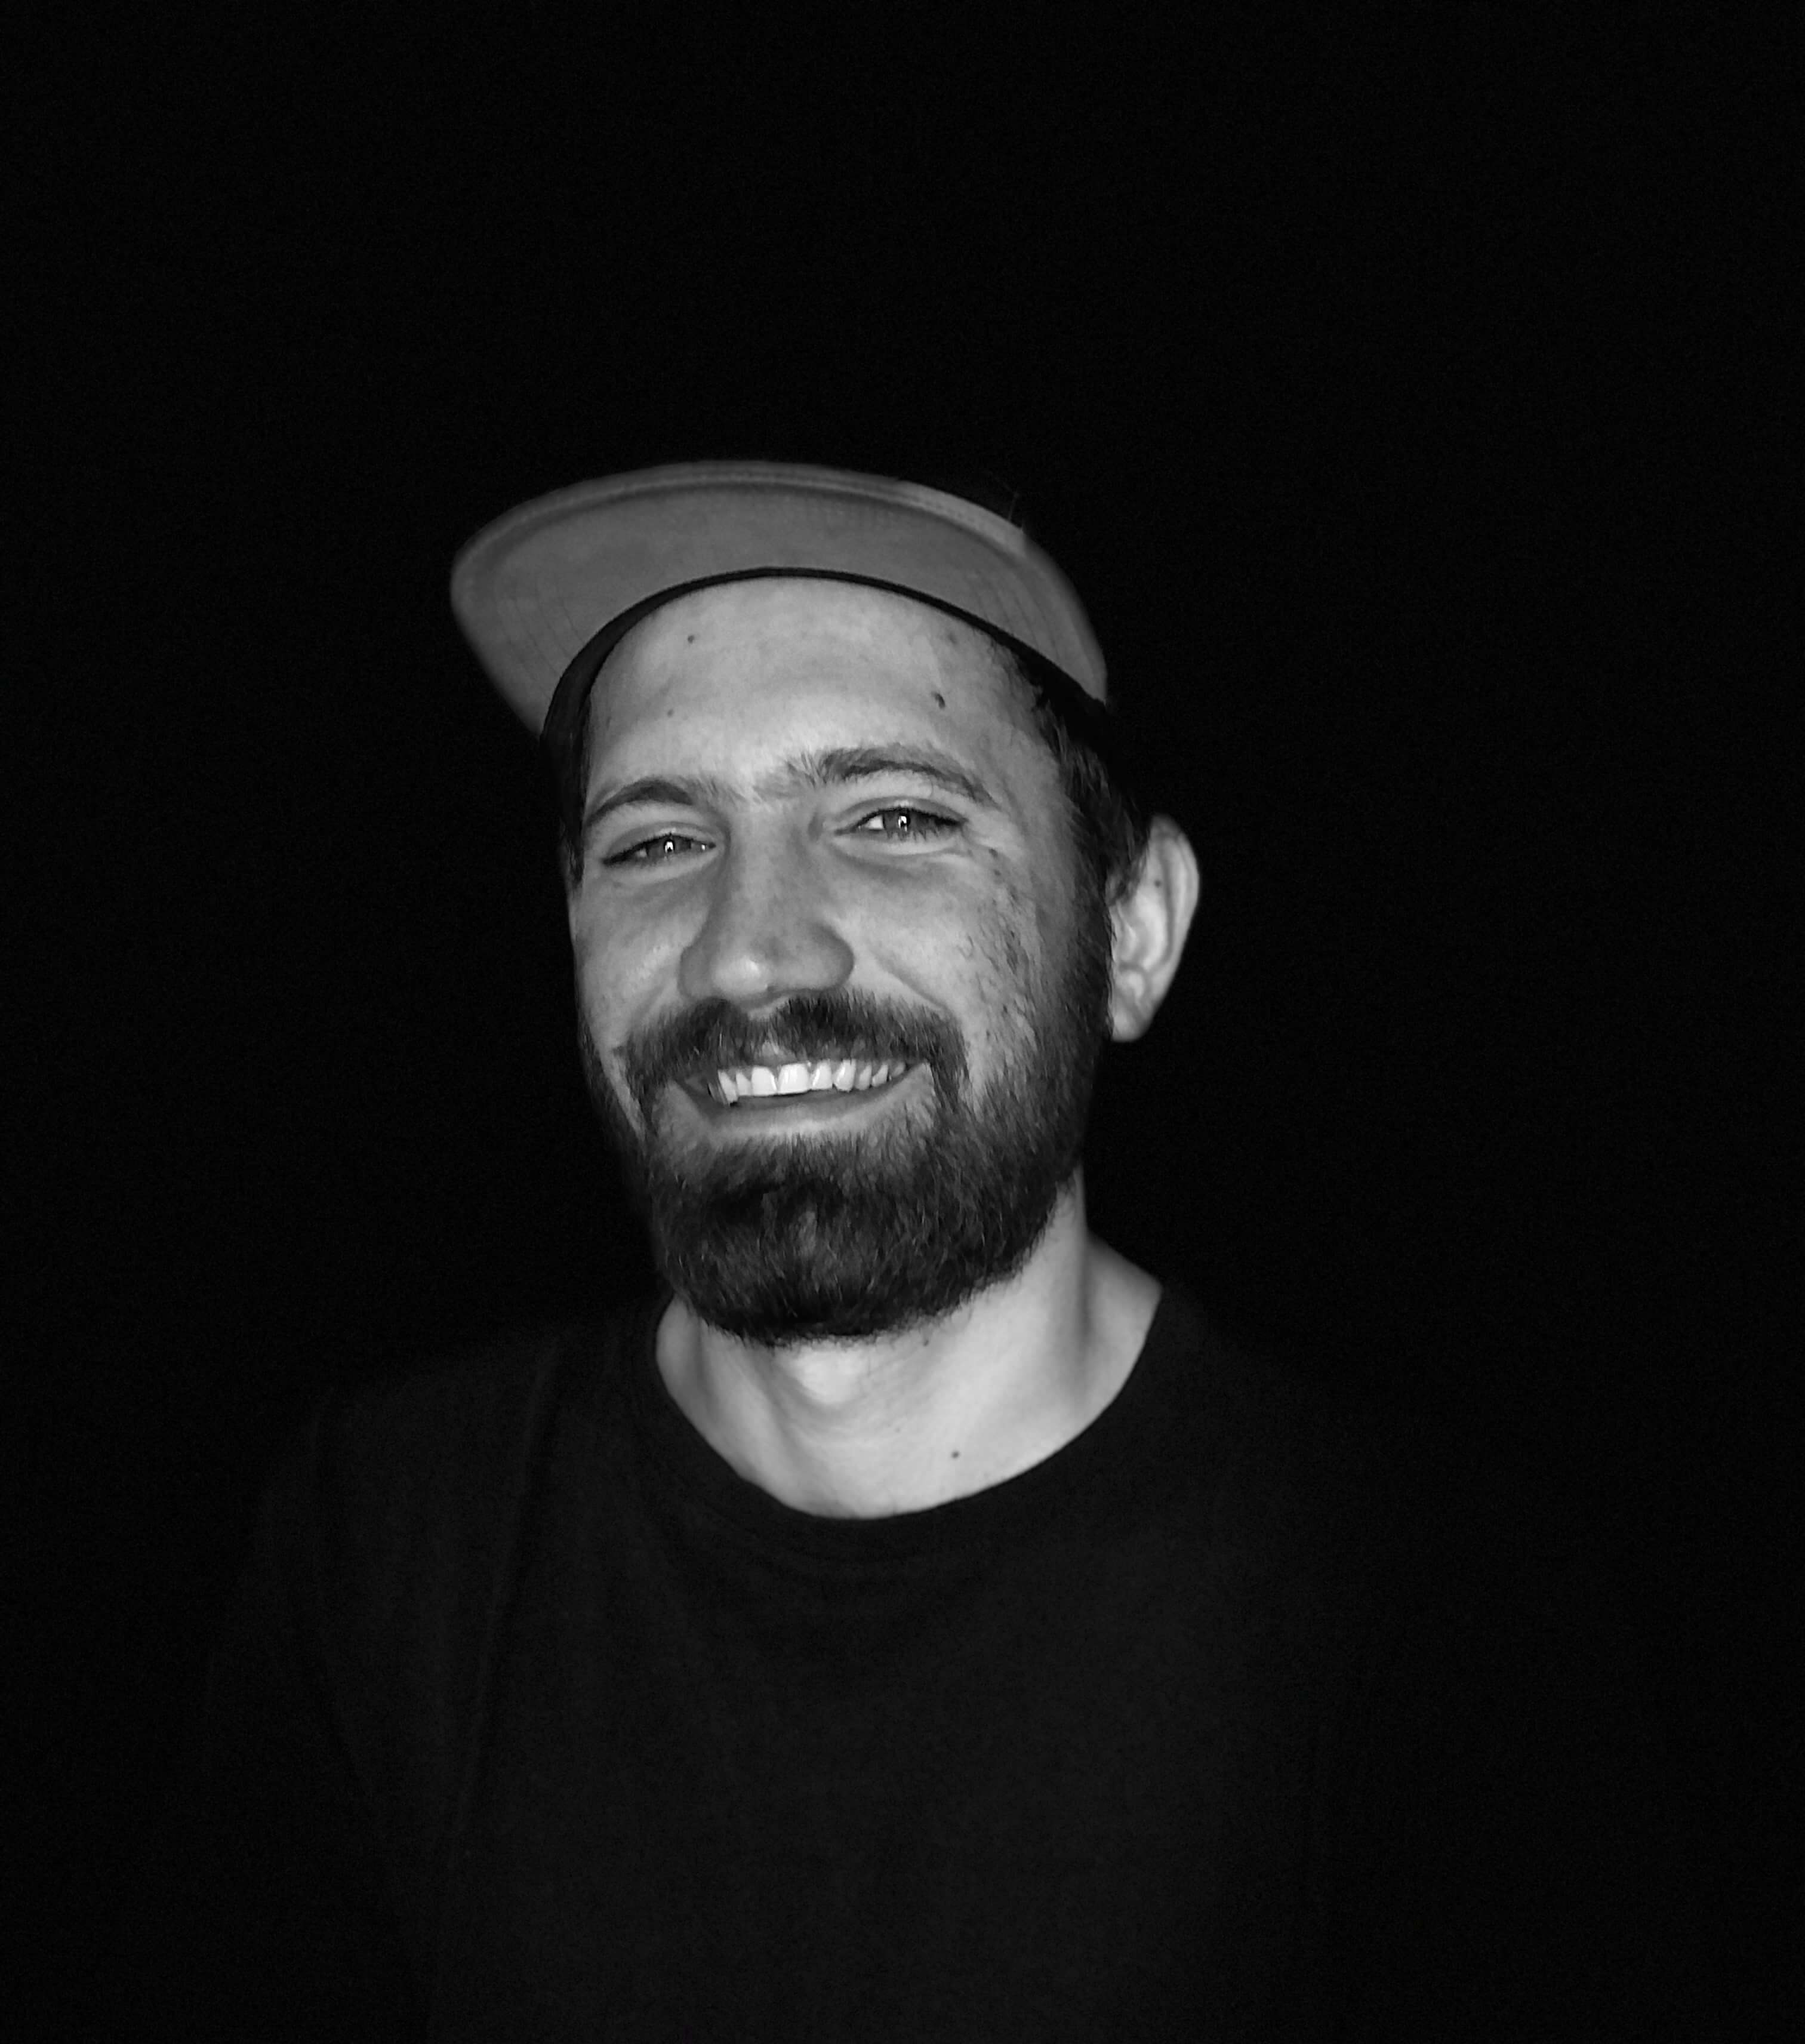
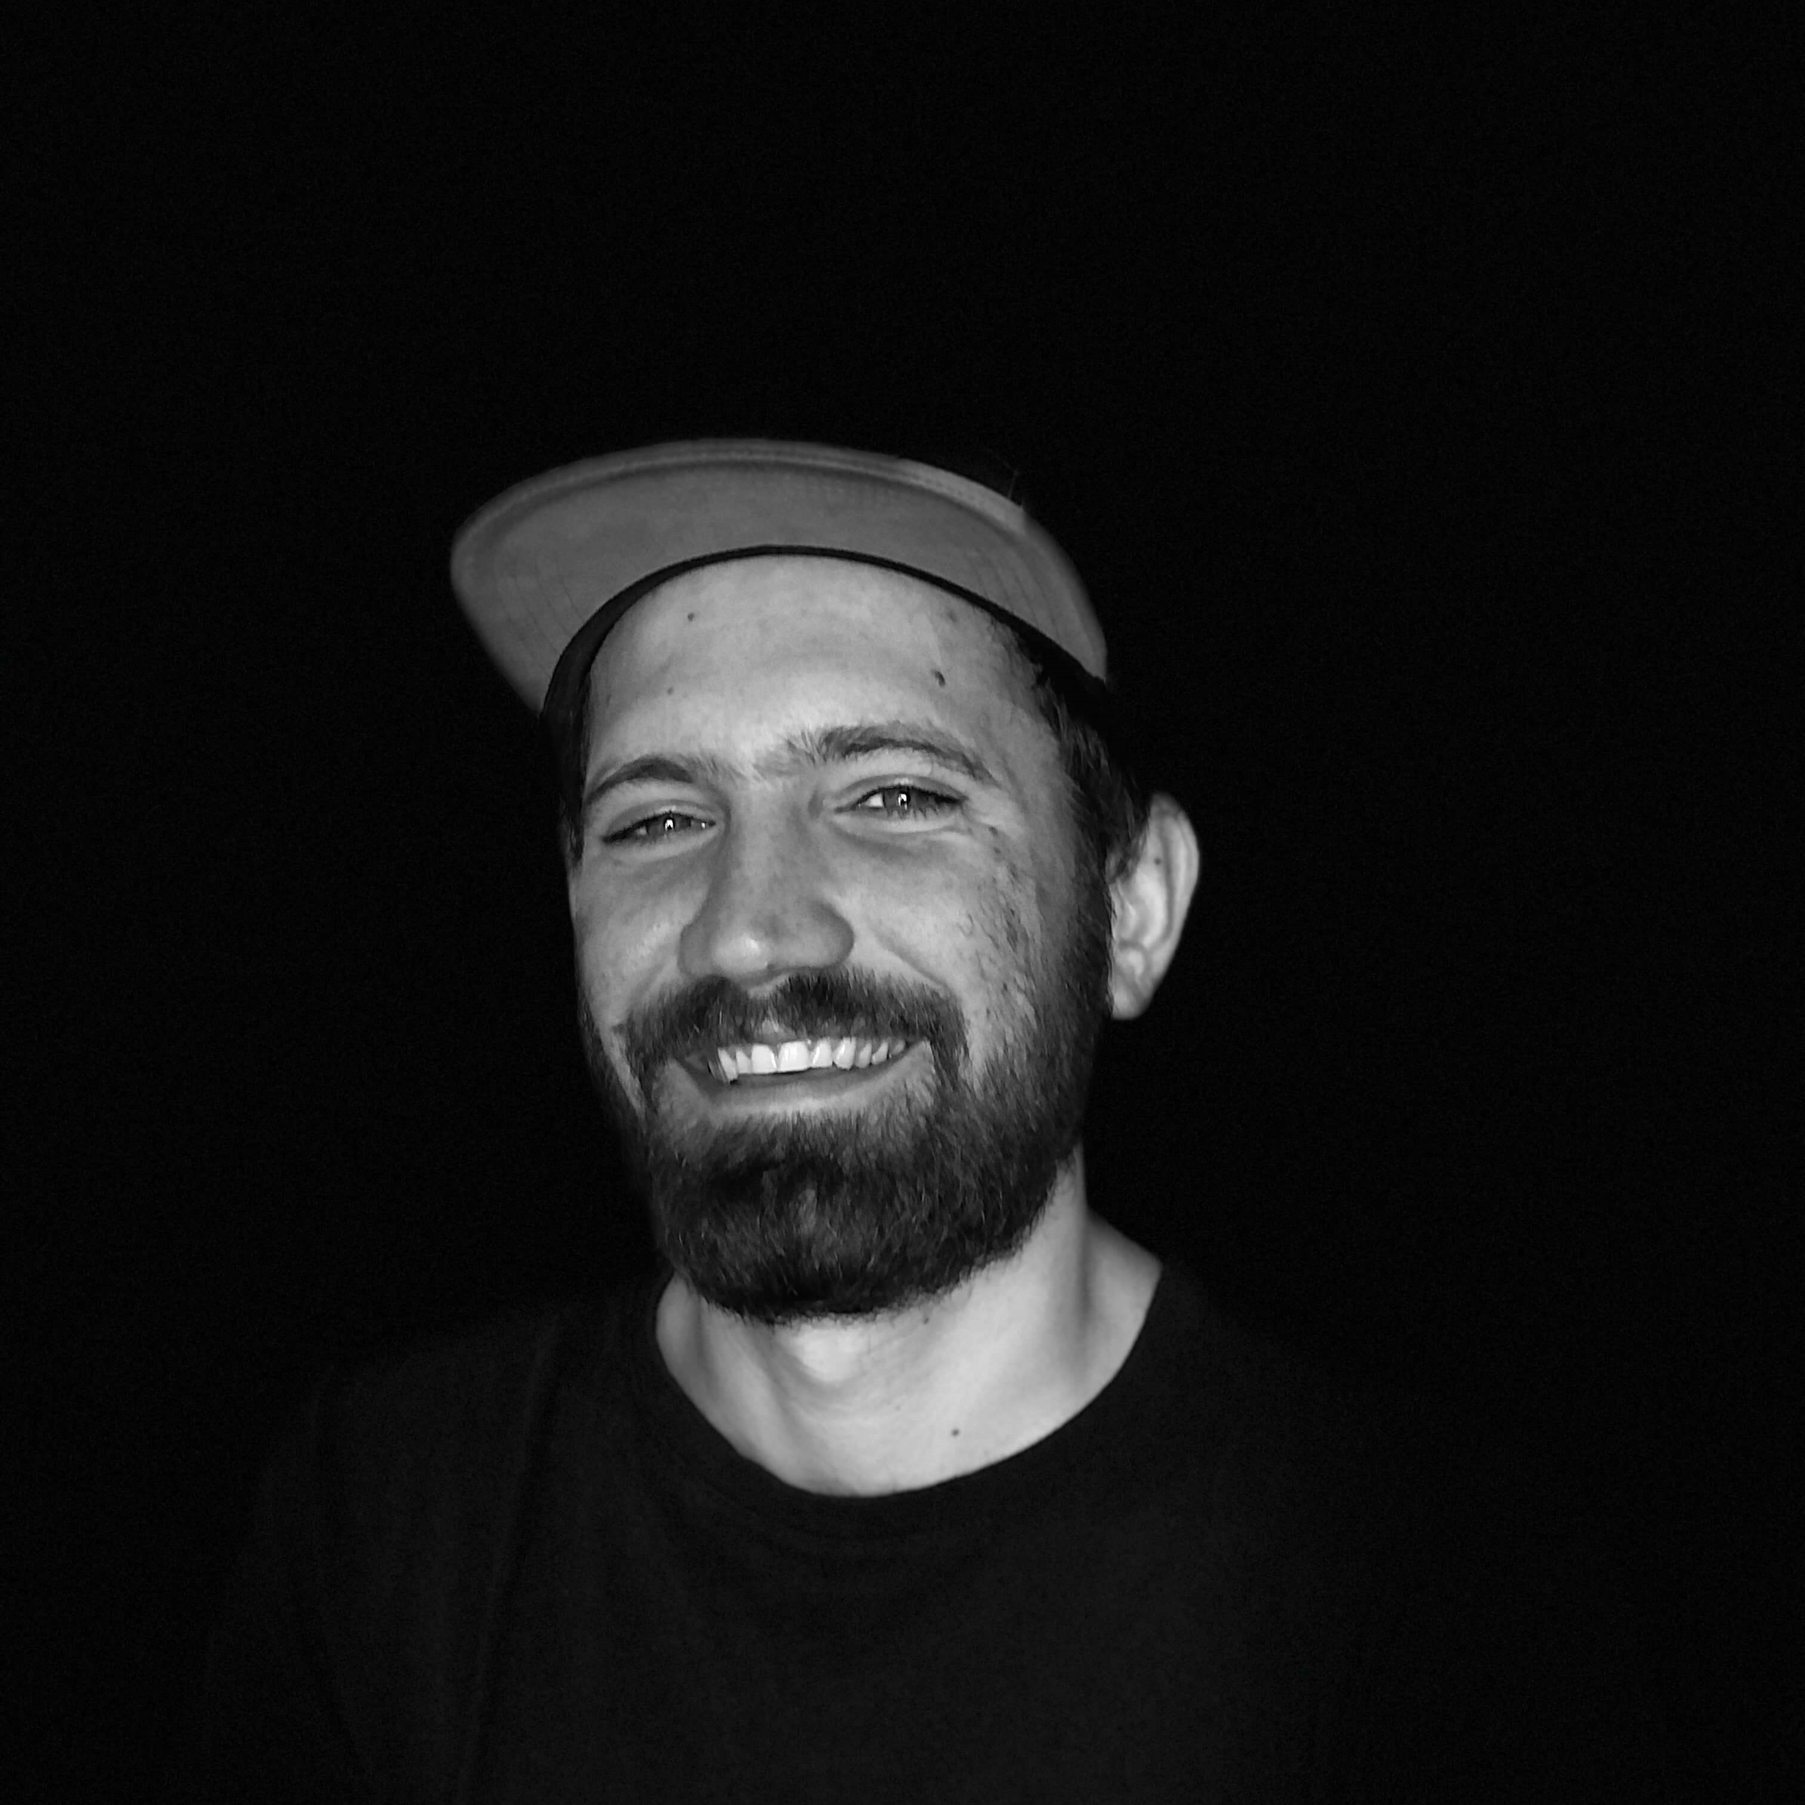
cambiamos las fotos y agregamos hover a todas las imagenes, agregamos map-get a todos los archivos para profundizar en sass

Changed region(s): [[0.2487, 0.2176, 0.6839, 0.8393]]

diff --git a/css/main.css b/css/main.css
@@ -1,3 +1,24 @@
+texto {
+  color: whitesmoke; }
+
+oro {
+  color: #C49609; }
+
+bordo {
+  color: #a21f30; }
+
+blanco {
+  color: white; }
+
+fondo-gris {
+  color: #2a2a2a; }
+
+fondo-negro {
+  color: black; }
+
+hover {
+  color: #4ca3f3; }
+
 body {
   background-color: black; }
 
@@ -55,7 +76,10 @@ body {
   grid-area: imagen;
   display: flex;
   justify-content: center;
-  overflow: hidden; }
+  overflow: hidden;
+  filter: blur(2px); }
+  .imagen:hover {
+    filter: blur(0); }
 
 .aboutmeindex {
   background-color: #2a2a2a; }
@@ -110,8 +134,10 @@ body {
   letter-spacing: 5px; }
 
 .card {
-  background-color: #000;
+  background-color: black;
   margin: auto; }
+  .card:hover {
+    color: #4ca3f3; }
 
 .card-img-top {
   background-color: black; }
@@ -122,9 +148,8 @@ body {
 .acoderhouse {
   text-decoration: none;
   color: whitesmoke; }
-
-.acoderhouse:hover {
-  color: #a21f30; }
+  .acoderhouse:hover {
+    color: #4ca3f3; }
 
 .main__contenedor {
   display: flex;
@@ -168,16 +193,19 @@ body {
     display: inline;
     font-family: 'Kanit', sans-serif;
     list-style-type: none;
-    padding: 0px 15px; }
+    padding: 0px 15px;
+    /* aca puedo aplicar el extend*/ }
     .footer__list .footer__link .anchor {
       color: whitesmoke; }
+      .footer__list .footer__link .anchor:hover {
+        color: #4ca3f3; }
 
 .mailto {
   list-style-type: none;
   color: whitesmoke;
   text-decoration: none; }
   .mailto:hover {
-    color: whitesmoke; }
+    color: #4ca3f3; }
 
 .grillado {
   display: grid;
@@ -185,12 +213,15 @@ body {
   grid-template-columns: repeat(auto-fill, minmax(150px, 1fr));
   grid-template-rows: auto;
   grid-auto-flow: dense; }
+  .grillado__imagen {
+    width: 100%;
+    height: 100%;
+    object-fit: cover;
+    filter: grayscale(100%); }
+    .grillado__imagen:hover {
+      filter: grayscale(0%); }
 
-.grillado > div > img {
-  width: 100%;
-  height: 100%;
-  object-fit: cover; }
-
+/*puedo aplicar extend por aqui*/
 .vertical {
   grid-row: span 2; }
 
@@ -201,6 +232,7 @@ body {
 .horizontal {
   grid-column: span 2; }
 
+/*extend extend extend*/
 @media screen and (max-width: 320px) {
   .grillado {
     grid-template-columns: 1fr; } }

diff --git a/paginas/aboutme.html b/paginas/aboutme.html
@@ -35,13 +35,15 @@
                 <p class="main__text">That is why I decided to focus on learning and working in the programming area, I am currently studying full stack and I am studying autonomously on my own.</p>
             </div>
             <div class="grillado col-md-6">
-                <div class="cuadrada"><img src="../imagenes/campo-cuadrada.jpg"/></div>
-                <div class="vertical"><img src="../imagenes/mexico-vertical.jpg"/></div>
-                <div class="horizontal"><img src="../imagenes/copaamerica-horizontal.jpg"/></div>
-                <div class="cuadrada"><img src="../imagenes/peritomoreno-cuadrada.jpg"/></div>
-                <div class="vertical"><img src="../imagenes/puebloescondido-vertical.jpg"/></div>
-                <div class="horizontal"><img src="../imagenes/roma-horizontal.jpg"/></div>
-                <div class="vertical"><img src="../imagenes/sagradafamilia-vertical.jpg"/></div>
+                <div class="cuadrada"><img class="grillado__imagen" src="../imagenes/campo-cuad.jpg"/></div>
+                <div class="vertical"><img class="grillado__imagen" src="../imagenes/mexico-vert.jpg"/></div>
+                <div class="horizontal"><img class="grillado__imagen" src="../imagenes/copaamerica-hor.jpg"/></div>
+                <div class="cuadrada"><img class="grillado__imagen" src="../imagenes/foto1.jpeg"/></div>
+                <div class="vertical"><img class="grillado__imagen" src="../imagenes/puebloescondido-vert.jpg"/></div>
+                <div class="horizontal"><img class="grillado__imagen" src="../imagenes/roma-hor.jpg"/></div>
+                <div class="vertical"><img class="grillado__imagen" src="../imagenes/sagradafamilia-vert.jpg"/></div>
+                <div class="vertical"><img class="grillado__imagen" src="../imagenes/obelisco-vert.jpg"/></div>
+                <div class="cuadrada"><img class="grillado__imagen" src="../imagenes/peritomoreno-cuad.jpg"/></div>
             </div>
         </div>
     </div>

diff --git a/sass/_estilos.scss b/sass/_estilos.scss
@@ -4,17 +4,16 @@
     font-size: 2.5rem;
     letter-spacing: 10px;
     padding:20px;
-    color:#a21f30;
+    color:map-get($colores, bordo);
     text-decoration: none;
         &:hover {
-            color:#C49609;
+            color:map-get($colores, oro);
         }
 }
 
 .header {
-    //height:80vh;
     &__title {
-        color:#C49609;
+        color:map-get($colores, oro);
     font-family: 'Bebas Neue', cursive;
     padding: 0.3rem;
     font-size: 4em; 
@@ -30,7 +29,7 @@
 
 .header-small {
         &__title {
-            color:#C49609;
+            color:map-get($colores, oro);
         font-family: 'Bebas Neue', cursive;
         padding: 0.3rem;
         font-size: 4em; 
@@ -45,23 +44,25 @@
 }
 
 .card {
-    background-color: #000;
+    background-color:map-get($colores, fondo-negro);
     margin:auto;
+    &:hover {
+        color:map-get($colores, hover);
+    }
 }
 
 .card-img-top{
-    background-color: black;
+    background-color:map-get($colores, fondo-negro);
 }
 
 .fondo-blanco {
-    background-color: white;
+    background-color:map-get($colores, blanco);
 }
 
 .acoderhouse {
     text-decoration: none;
-    color:whitesmoke;
-}
-
-.acoderhouse:hover {
-    color:#a21f30;
+    color:map-get($colores, texto);
+    &:hover {
+        color:map-get($colores, hover);
+    }
 }

diff --git a/sass/_grillado.scss b/sass/_grillado.scss
@@ -4,14 +4,18 @@
     grid-template-columns: repeat(auto-fill, minmax(150px, 1fr)); 
     grid-template-rows: auto; 
     grid-auto-flow: dense; 
+    &__imagen {
+      width: 100%; 
+      height: 100%; 
+      object-fit: cover; 
+      filter:grayscale(100%);
+      &:hover {
+        filter:grayscale(0%);
+      }
+    }
   }
-  
-  .grillado > div > img {
-    width: 100%; 
-    height: 100%; 
-    object-fit: cover; 
-  }
-  
+ 
+  /*puedo aplicar extend por aqui*/
   .vertical{
     grid-row: span 2; 
   }
@@ -24,10 +28,13 @@
   .horizontal{
     grid-column: span 2; 
   }
+  /*extend extend extend*/
   
-  
+
   @media screen and (max-width: 320px){
     .grillado{
       grid-template-columns: 1fr; }
   }
+
+
   

diff --git a/sass/_footer.scss b/sass/_footer.scss
@@ -8,19 +8,22 @@
       font-family: 'Kanit', sans-serif;
       list-style-type: none;
       padding:  0px 15px;
-
+/* aca puedo aplicar el extend*/
       .anchor {
-         color:whitesmoke;
+         color:map-get($colores, texto);
+         &:hover {
+            color:map-get($colores, hover);
+         }
       }
    }
  }
  
  .mailto {
    list-style-type: none;
-   color:whitesmoke;
+   color:map-get($colores, texto);
    text-decoration: none;
    &:hover {
-      color:whitesmoke;
+      color:map-get($colores, hover);
    }
  }
 

diff --git a/sass/_home.scss b/sass/_home.scss
@@ -63,13 +63,16 @@
     display:flex;
     justify-content:center;
     overflow:hidden;
+    filter: blur(2px);
+    &:hover {
+        filter:blur(0);
+    }
 }
 
 .aboutmeindex {
-    //height: 60vh;
-    background-color: rgb(42, 42, 42);
+    background-color:map-get($colores, fondo-gris);
     &__h2 {
-        color:whitesmoke;
+        color:map-get($colores, texto);
         font-family: 'Bebas Neue', cursive;
         font-size: 2rem;
         letter-spacing: 0.3em;

diff --git a/sass/_variables.scss b/sass/_variables.scss
@@ -1,5 +1,16 @@
-$color-texto: whitesmoke;
-$color-oro: #C49609;
-$color-bordo: #a21f30;
-$color-fondo-gris:rgb(42, 42, 42);
-$color-fondo-negro:black;
+$colores:(
+    "texto": whitesmoke,
+    "oro": #C49609,
+    "bordo": #a21f30,
+    "blanco":white,
+    "fondo-gris":rgb(42, 42, 42),
+    "fondo-negro":black,
+    "hover":#4ca3f3
+);
+
+@each $color, $value in $colores {
+    #{$color}{
+        color:#{$value};
+    }
+}
+

diff --git a/sass/_about.scss b/sass/_about.scss
@@ -10,13 +10,13 @@
         font-family: 'Bebas Neue', cursive;
         font-size: 3rem;
         letter-spacing: 5px;
-        color:#C49609;
+        color:map-get($colores, oro);
     }
     &__text {
         padding:1rem;
         font-family: 'Kanit', sans-serif;
         font-size: 2rem;
         letter-spacing: 5px;
-        color:whitesmoke;
+        color:map-get($colores, texto);
     }
 }

diff --git a/sass/_contact.scss b/sass/_contact.scss
@@ -6,11 +6,8 @@
     letter-spacing: 5px;
 }
 
-
-
-
 .h1-responsive {
-    color:#C49609;
+    color:map-get($colores, oro);
     font-family: 'Bebas Neue', cursive;
     padding: 0.3rem;
     font-size: 5.6rem;

diff --git a/sass/_general.scss b/sass/_general.scss
@@ -1,3 +1,3 @@
 body {
-    background-color:black;
+    background-color:map-get($colores, fondo-negro);
 }
